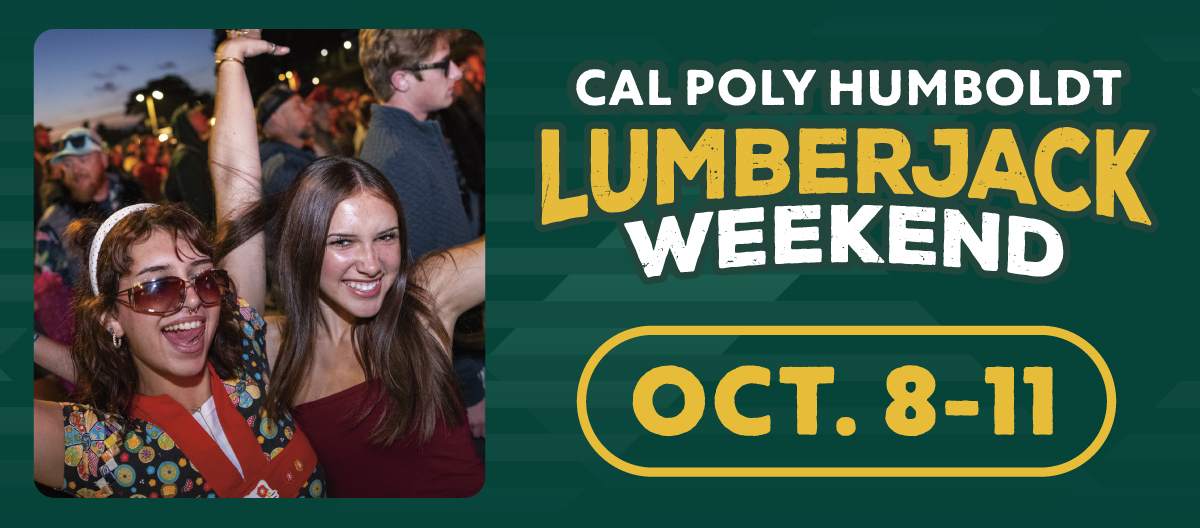
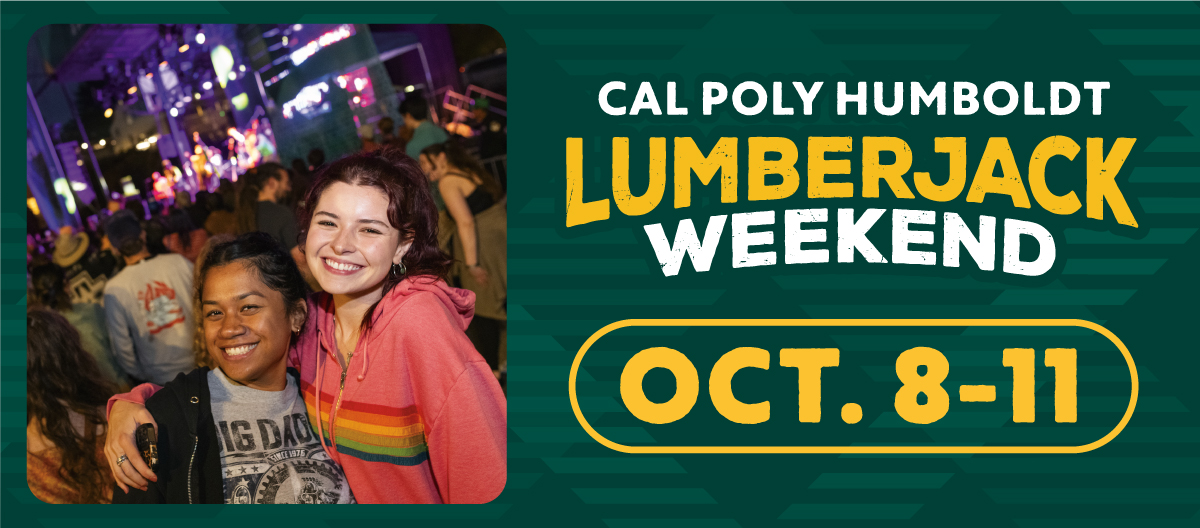
lumberjack weekend registration reminder - update image

diff --git a/general/2026_09_14/index.html b/general/2026_09_14/index.html
@@ -180,7 +180,7 @@
                           <tbody>
                             <tr>
                               <td style="width:550px;">
-                                <img alt="Cal Poly Humboldt Lumberjack Weekend Oct. 8-11" src="https://mailings.humboldt.edu/general/2026_08_19/LJWeekend_Students_Dates_1200x528.jpg" style="border:0;display:block;outline:none;text-decoration:none;height:auto;width:100%;font-size:13px;" width="550" height="auto">
+                                <img alt="Cal Poly Humboldt Lumberjack Weekend Oct. 8-11" src="https://mailings.humboldt.edu/general/2026_09_14/LJWeekend_Students_Dates_1200x528.jpg" style="border:0;display:block;outline:none;text-decoration:none;height:auto;width:100%;font-size:13px;" width="550" height="auto">
                               </td>
                             </tr>
                           </tbody>
@@ -190,11 +190,6 @@
                     <tr>
                       <td align="center" style="font-size:0px;padding:10px 25px;word-break:break-word;">
                         <div style="font-family:Arial, sans-serif;font-size:34px;line-height:1.3;text-align:center;color:#004C46;">Don’t forget to register for Lumberjack Weekend!</div>
-                      </td>
-                    </tr>
-                    <tr>
-                      <td align="left" style="font-size:0px;padding:10px 25px;word-break:break-word;">
-                        <div style="font-family:Arial, sans-serif;font-size:15px;line-height:20px;text-align:left;color:#004C46;">Four days of Green & Gold spirit are just around the corner, so make sure you’re registered and ready to join the celebration!</div>
                       </td>
                     </tr>
                   </tbody>
@@ -218,7 +213,12 @@
                   <tbody>
                     <tr>
                       <td align="left" style="font-size:0px;padding:10px 25px;word-break:break-word;">
-                        <div style="font-family:Arial, sans-serif;font-size:15px;line-height:20px;text-align:left;color:#004C46;"><strong>All participants need to register</strong>: Students, staff, and faculty have the option to register for free or for a fee with a limited-edition Lumberjack Weekend clear crossbody bag!</div>
+                        <div style="font-family:Arial, sans-serif;font-size:15px;line-height:20px;text-align:left;color:#004C46;">Four days of Green &amp; Gold spirit are just around the corner!</div>
+                      </td>
+                    </tr>
+                    <tr>
+                      <td align="left" style="font-size:0px;padding:10px 25px;word-break:break-word;">
+                        <div style="font-family:Arial, sans-serif;font-size:15px;line-height:20px;text-align:left;color:#004C46;"><strong>Remember, all participants need to register</strong>: Students, staff, and faculty have the option to register for free or for a fee with a limited-edition Lumberjack Weekend clear crossbody bag!</div>
                       </td>
                     </tr>
                   </tbody>
@@ -234,7 +234,7 @@
                           <tbody>
                             <tr>
                               <td style="width:250px;">
-                                <img alt="Clear cross body bag" src="https://mailings.humboldt.edu/general/2026_08_19/LJW_crossbody.jpg" style="border:0;display:block;outline:none;text-decoration:none;height:auto;width:100%;font-size:13px;" width="250" height="auto">
+                                <img alt="Clear cross body bag" src="https://mailings.humboldt.edu/general/2026_09_14/LJW_crossbody.jpg" style="border:0;display:block;outline:none;text-decoration:none;height:auto;width:100%;font-size:13px;" width="250" height="auto">
                               </td>
                             </tr>
                           </tbody>
